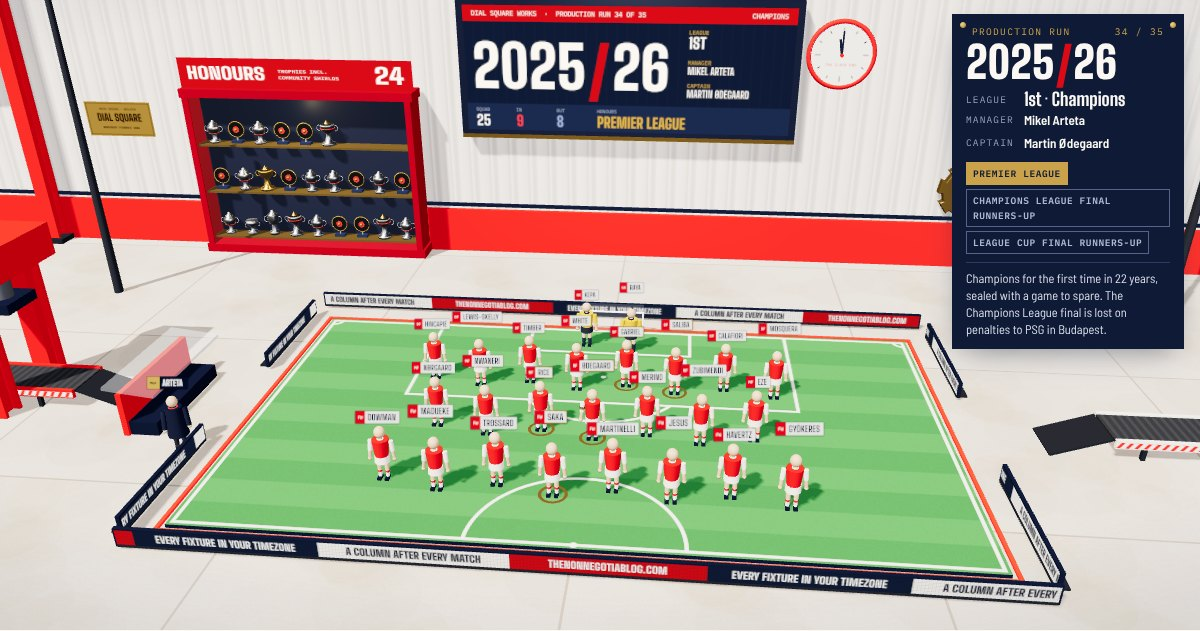
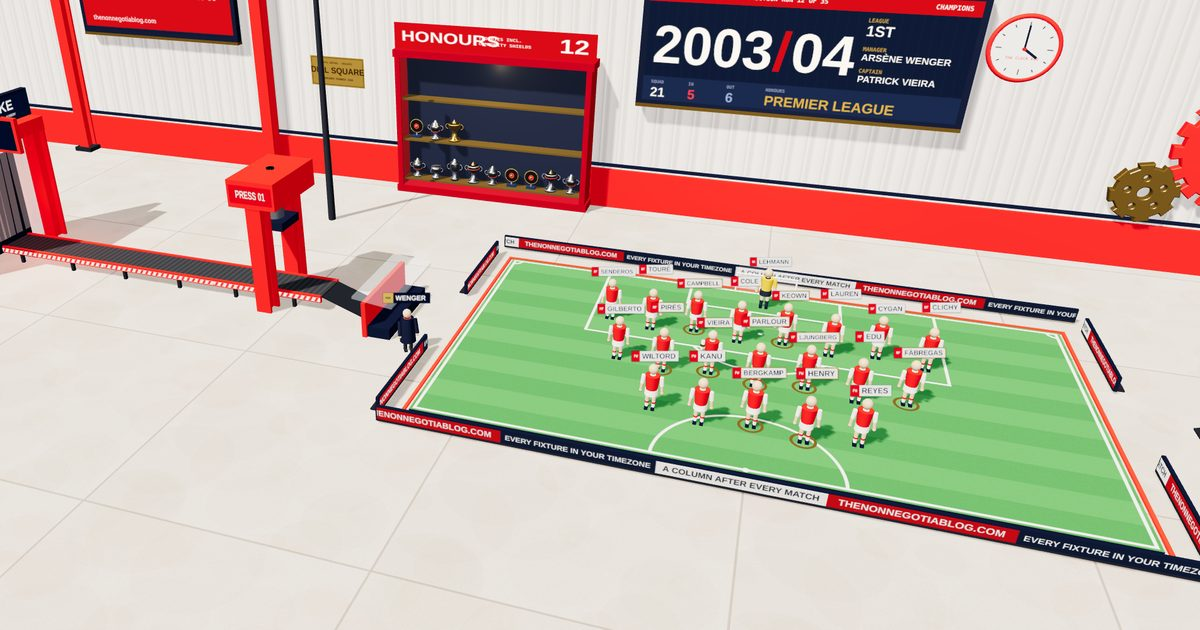
Homepage hero: clean factory render (no HUD panels), pitch framed right of the headline
New factory-hero.jpg is our own 3D scene with every HTML panel hidden,
2003/04 Invincibles on the pitch, floor left clear for the text. Fitted to
the hero's height and anchored right; shifted further right on laptop
widths; on phones it fades into the hero instead of ending in a hard edge.
factory-og.jpg (share card) re-cut from the same render.

Claude-Session: https://claude.ai/code/session_015bNF5qGzE2YX9E3yih5jXD

diff --git a/factory.css b/factory.css
@@ -201,7 +201,7 @@
 /* ---- homepage hero (index.html): a poster until the visitor walks in ---- */
 .fhero{position:relative;background:#0A1622;color:#fff;}
 .fhero__poster{position:relative;min-height:clamp(520px,76svh,820px);display:flex;align-items:flex-end;padding-block:clamp(40px,8vh,96px);
-  background:linear-gradient(90deg,rgba(10,22,34,.92) 0%,rgba(10,22,34,.72) 42%,rgba(10,22,34,.15) 78%),linear-gradient(0deg,rgba(10,22,34,.85),rgba(10,22,34,0) 45%),url('assets/img/factory-og.jpg') 62% center/cover no-repeat;}
+  background:linear-gradient(90deg,#0A1622 0%,rgba(10,22,34,.9) 36%,rgba(10,22,34,.35) 54%,rgba(10,22,34,0) 68%),linear-gradient(0deg,rgba(10,22,34,.7),rgba(10,22,34,0) 30%),url('assets/img/factory-hero.jpg') right center/auto 100% no-repeat #0A1622;}
 .fhero__in{width:100%;}
 .fhero__tag{display:inline-block;margin:0 0 14px;font-family:var(--mono,'IBM Plex Mono',monospace);font-size:12px;letter-spacing:.14em;text-transform:uppercase;background:#EF0107;color:#fff;padding:6px 10px;}
 .fhero__title{margin:0;max-width:16ch;font-size:clamp(38px,6.2vw,84px);line-height:.92;font-weight:900;font-variation-settings:'wdth' 72;text-transform:uppercase;letter-spacing:-.01em;text-wrap:balance;}
@@ -209,4 +209,5 @@
 .fhero__deck{margin:18px 0 0;max-width:52ch;font-size:clamp(16px,1.4vw,19px);line-height:1.5;color:rgba(255,255,255,.82);}
 .fhero__cta{display:flex;flex-wrap:wrap;gap:12px;margin-top:26px;}
 .fhero.is-live .fhero__poster{display:none;}
-@media (max-width:640px){.fhero__poster{background-position:70% center;}}
+@media (min-width:641px) and (max-width:1500px){.fhero__poster{background-position:0 0,0 0,right -14vw center;}}
+@media (max-width:640px){.fhero__poster{background:linear-gradient(0deg,#0A1622 0%,#0A1622 36%,rgba(10,22,34,.7) 58%,rgba(10,22,34,.4) 100%),url('assets/img/factory-hero.jpg') 80% 0/auto 66% no-repeat #0A1622;}}

diff --git a/assets/img/README.md b/assets/img/README.md
@@ -20,3 +20,13 @@ None show any Arsenal branding, crest, kit, or identifiable person —
 Swap any of them out at will; nothing else references these files by
 name except the inline `background` styles on each chapter's
 `.chapter__bg` in `index.html`.
+
+## Factory images (our own renders)
+
+`factory-hero.jpg` (homepage hero background) and `factory-og.jpg`
+(social share card) are screenshots of our own Dial Square Works scene,
+2003/04 season, with every HTML panel hidden so only the 3D world shows.
+Rendered with Playwright from `factory.html?debug#2003` (the debug flag
+exposes the camera): target (-12, 0.5, 0), camera (-1, 19, 33), 2400x1000.
+The pitch sits right of centre so the hero headline has clear floor to sit
+on. Re-render the same way if the factory's look changes.
